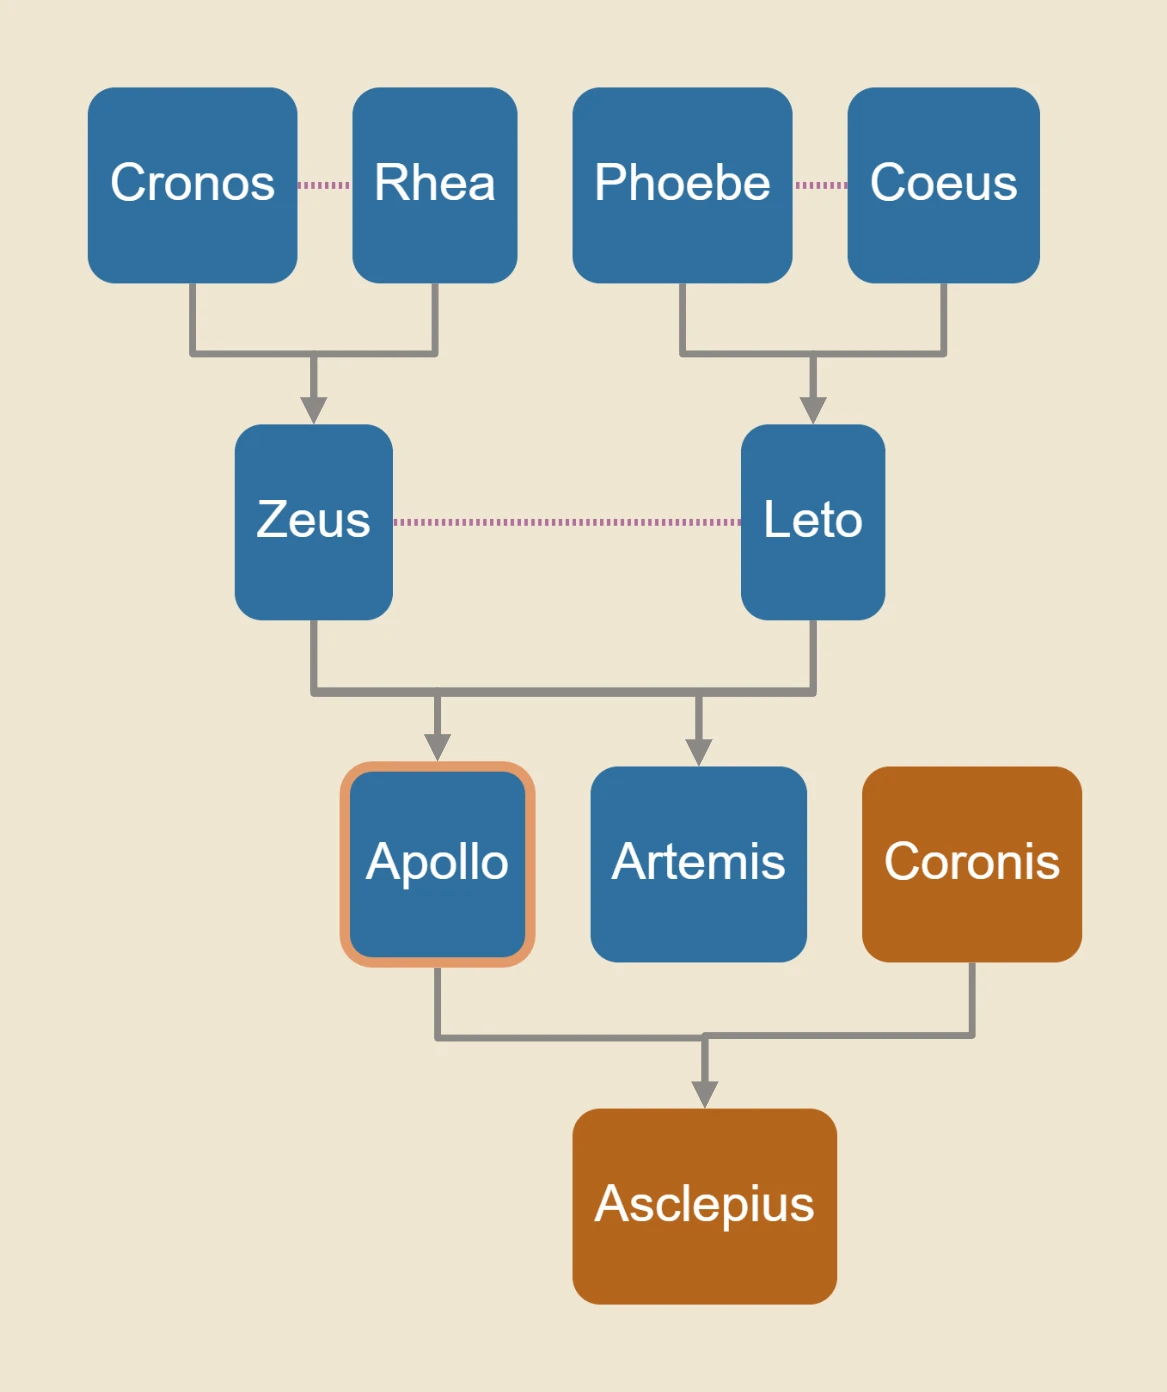
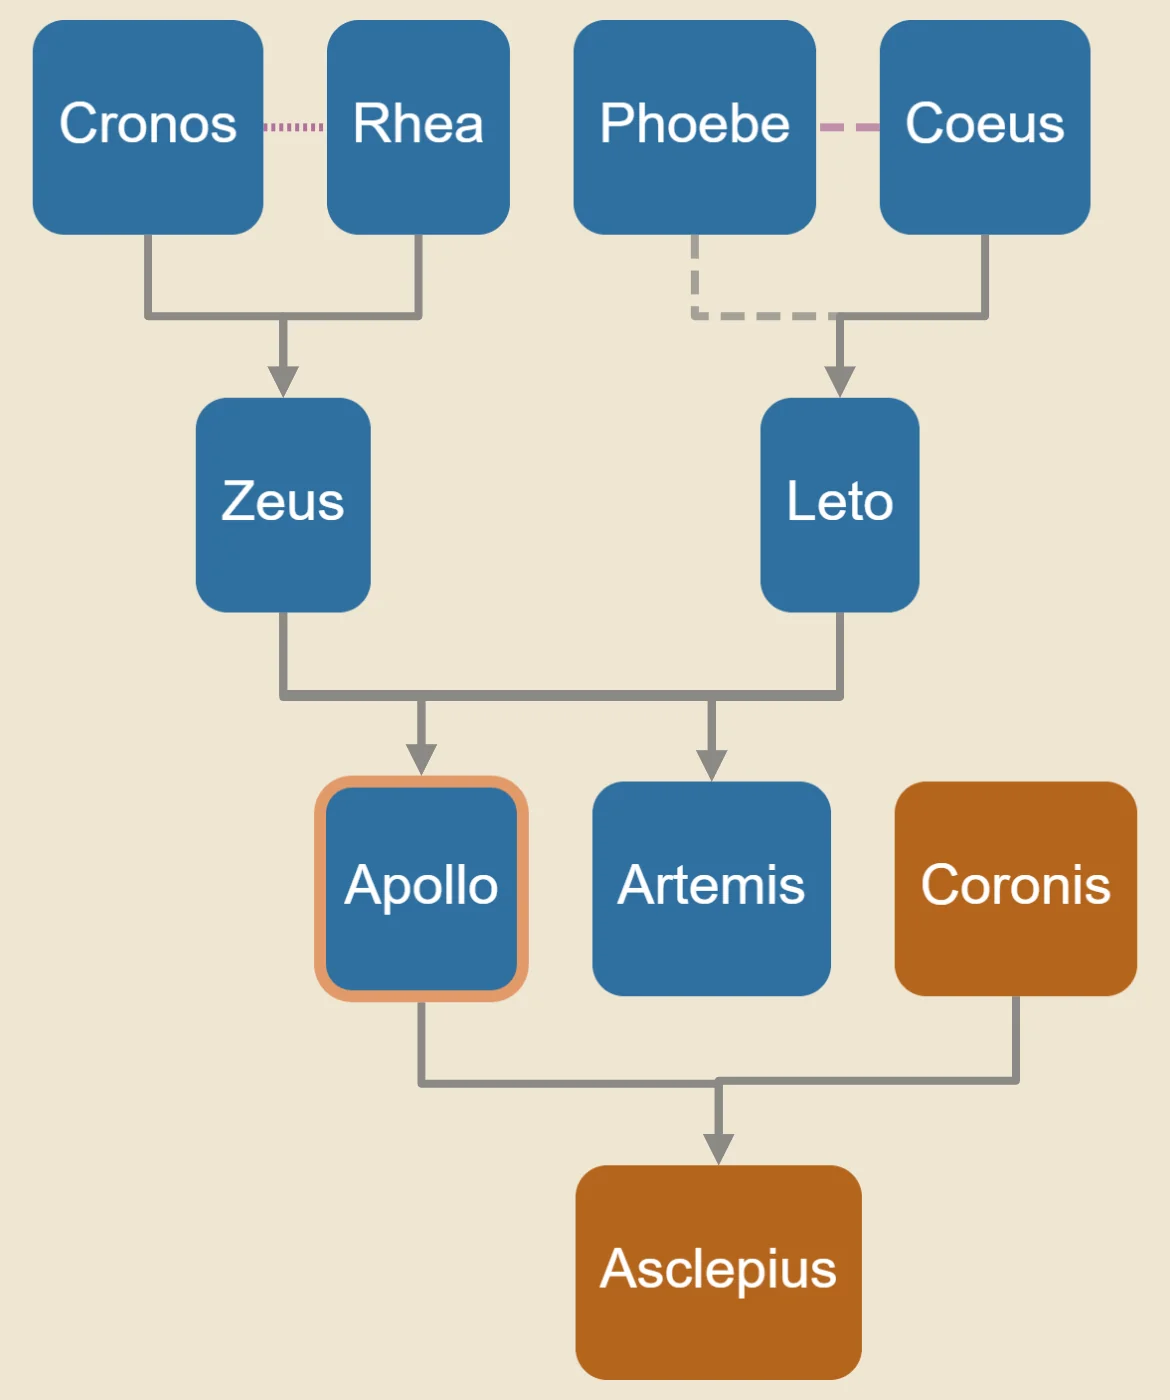
Landing page: new family-tree screenshot
Apollo's family in Hesiod as the reader draws it now, with dashed lines for
links the book does not state.

diff --git a/web/welcome.html b/web/welcome.html
@@ -145,9 +145,9 @@
         <figcaption><strong>Follow the journey.</strong> Every scene gets a pin, so you can watch Ulysses zigzag across the Mediterranean.</figcaption>
       </figure>
       <figure class="shot tall">
-        <img src="/static/img/tree-gods.webp" width="1167" height="1392" loading="lazy"
-             alt="Apollo's family tree: Cronos and Rhea, parents of Zeus; Phoebe and Coeus, parents of Leto; Zeus and Leto, parents of Apollo and Artemis; Apollo and the mortal Coronis, parents of Asclepius.">
-        <figcaption><strong>See who's related to whom.</strong> Apollo's family in one glance, from the Titans down to his son Asclepius. Gods in blue, mortals in orange.</figcaption>
+        <img src="/static/img/tree-gods.webp" width="1170" height="1400" loading="lazy"
+             alt="Apollo's family tree in Hesiod: Cronos and Rhea, parents of Zeus; Phoebe and Coeus, parents of Leto, with Phoebe's links dashed because Hesiod does not state them; Zeus and Leto, parents of Apollo and Artemis; Apollo and the mortal Coronis, parents of Asclepius.">
+        <figcaption><strong>See who's related to whom.</strong> Apollo's family in one glance, from the Titans down to his son Asclepius. Gods in blue, mortals in orange, and dashed lines where the book itself doesn't say so.</figcaption>
       </figure>
       <figure class="shot tall">
         <img src="/static/img/profile.webp" width="1120" height="2030" loading="lazy"
